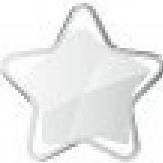
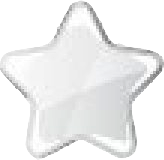
- aggiunto simpatico effetto stelline al feedback quando si chiude help request - rifatte immagini stelle

diff --git a/SWIMweb/WebContent/css/style.css b/SWIMweb/WebContent/css/style.css
@@ -173,16 +173,6 @@ fieldset {
 
 /* RATING */
 .rating {
-	width: 12px;
-	height: 12px;
-}
-
-.giveVote {
-	width: 20px;
-	height: 20px;
-	background-image: url(/SWIMweb/img/emptyStar.png);
-}
-
-.giveVote:hover {
-	background-image: url(/SWIMweb/img/fullStar.png);
+	width: 13px;
+	height: 13px;
 }
